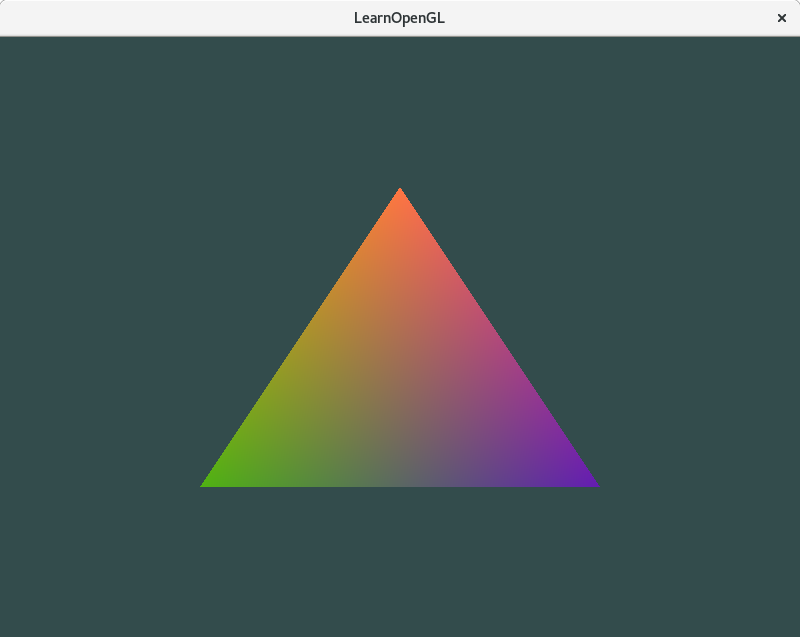
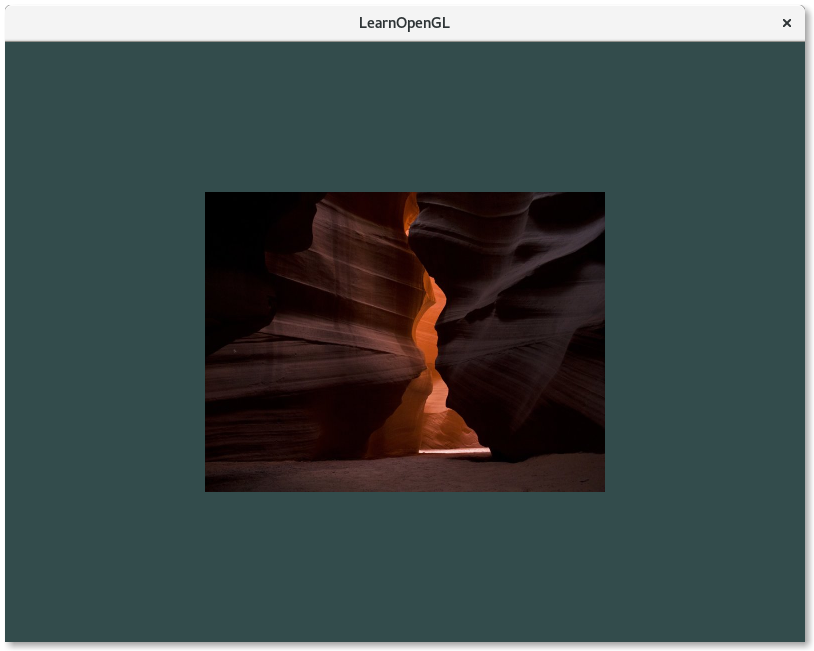
Finished chapter 02

Changed region(s): [[0.25, 0.2684, 0.75, 0.7755], [0.0, 0.0, 1.0, 1.0]]

diff --git a/README.md b/README.md
@@ -9,10 +9,10 @@ I will have a branch per chapter to track what the code is as of that chapter, a
 ### Progress
 
 - [x] Chapter 01 - Getting set up and opening a window
-- [ ] Chapter 02 - Drawing shapes and applying textures
+- [x] Chapter 02 - Drawing shapes and applying textures
   - [x] Drawing a triangle
   - [x] Abstracting the shaders
-  - [ ] Loading and applying textures to the shape
+  - [x] Loading and applying textures to the shape
 - [ ] Chapter 03 - Transformations, projections, and camera
   - [ ] Transformations using GLM
   - [ ] Projections and coordinate systems
